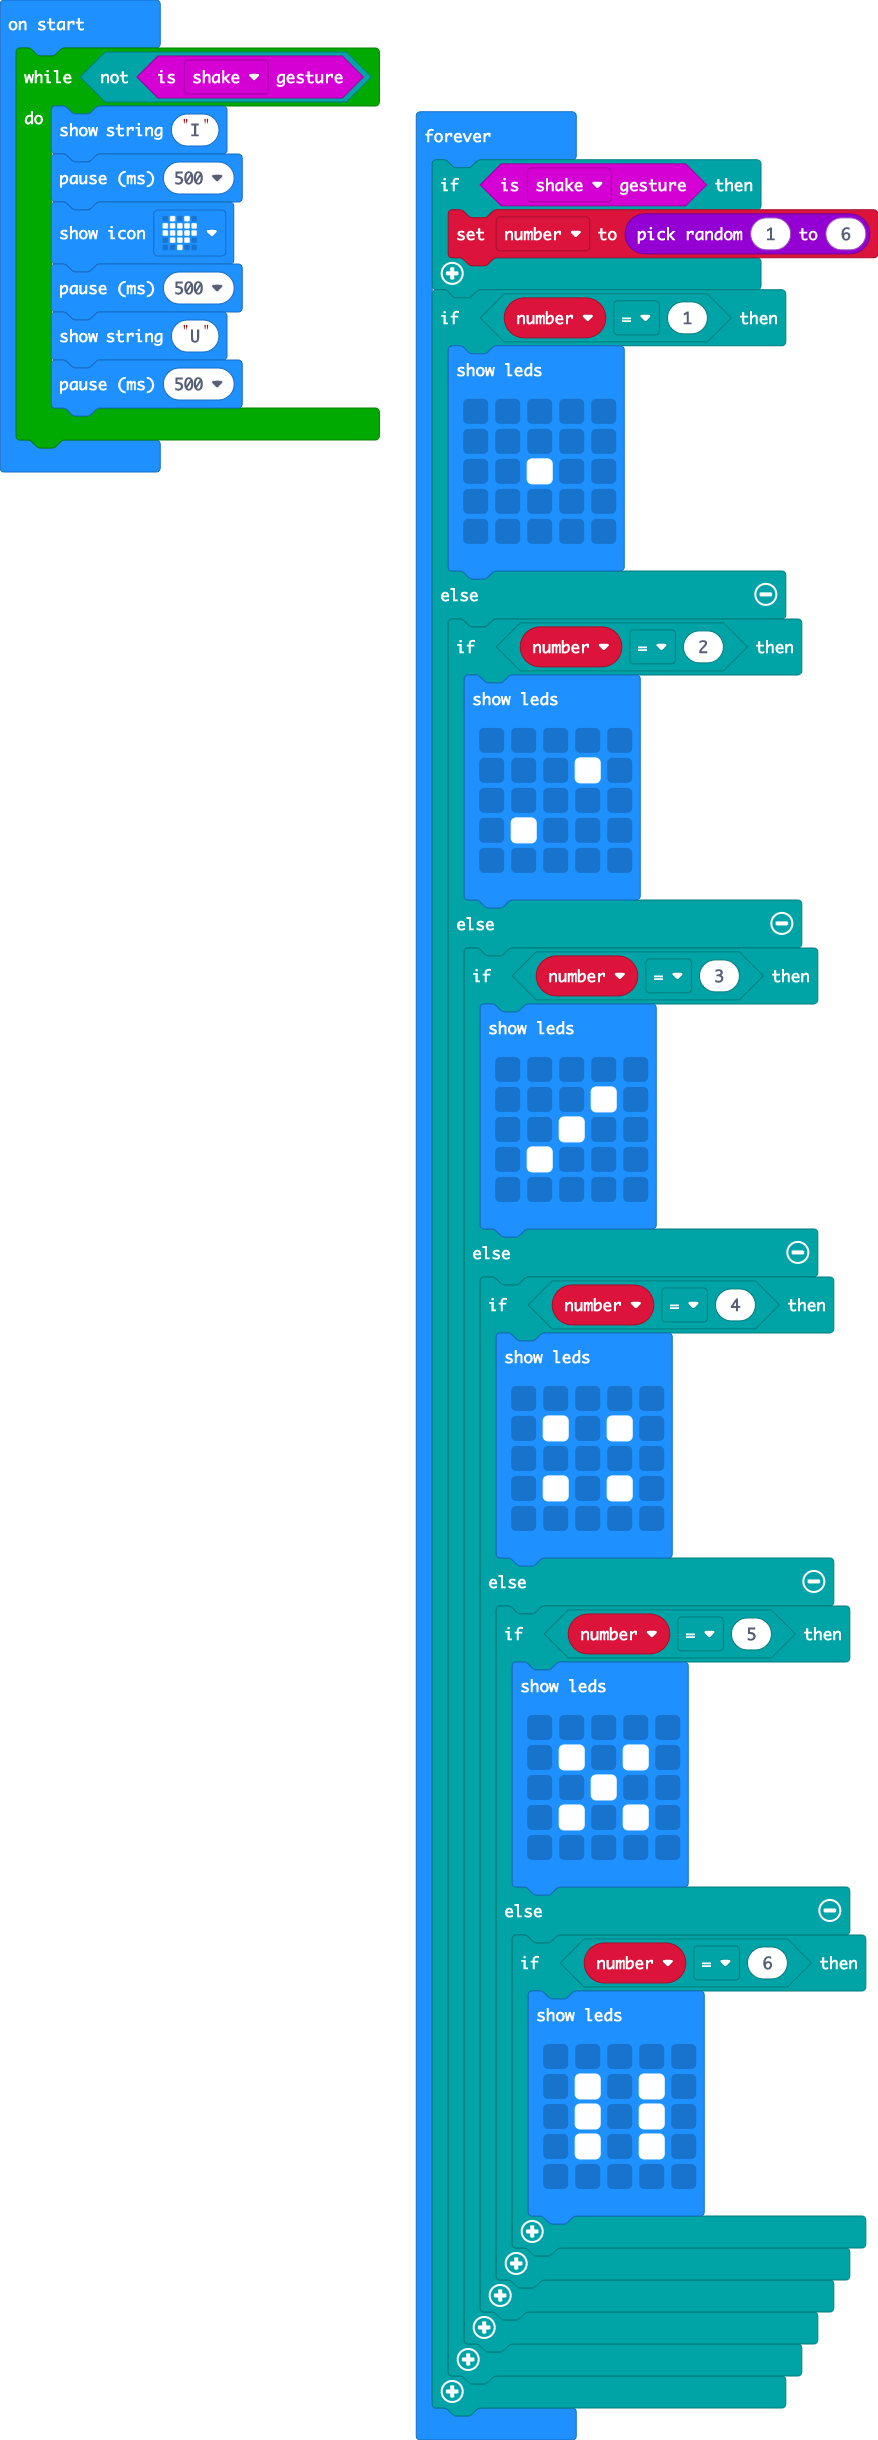
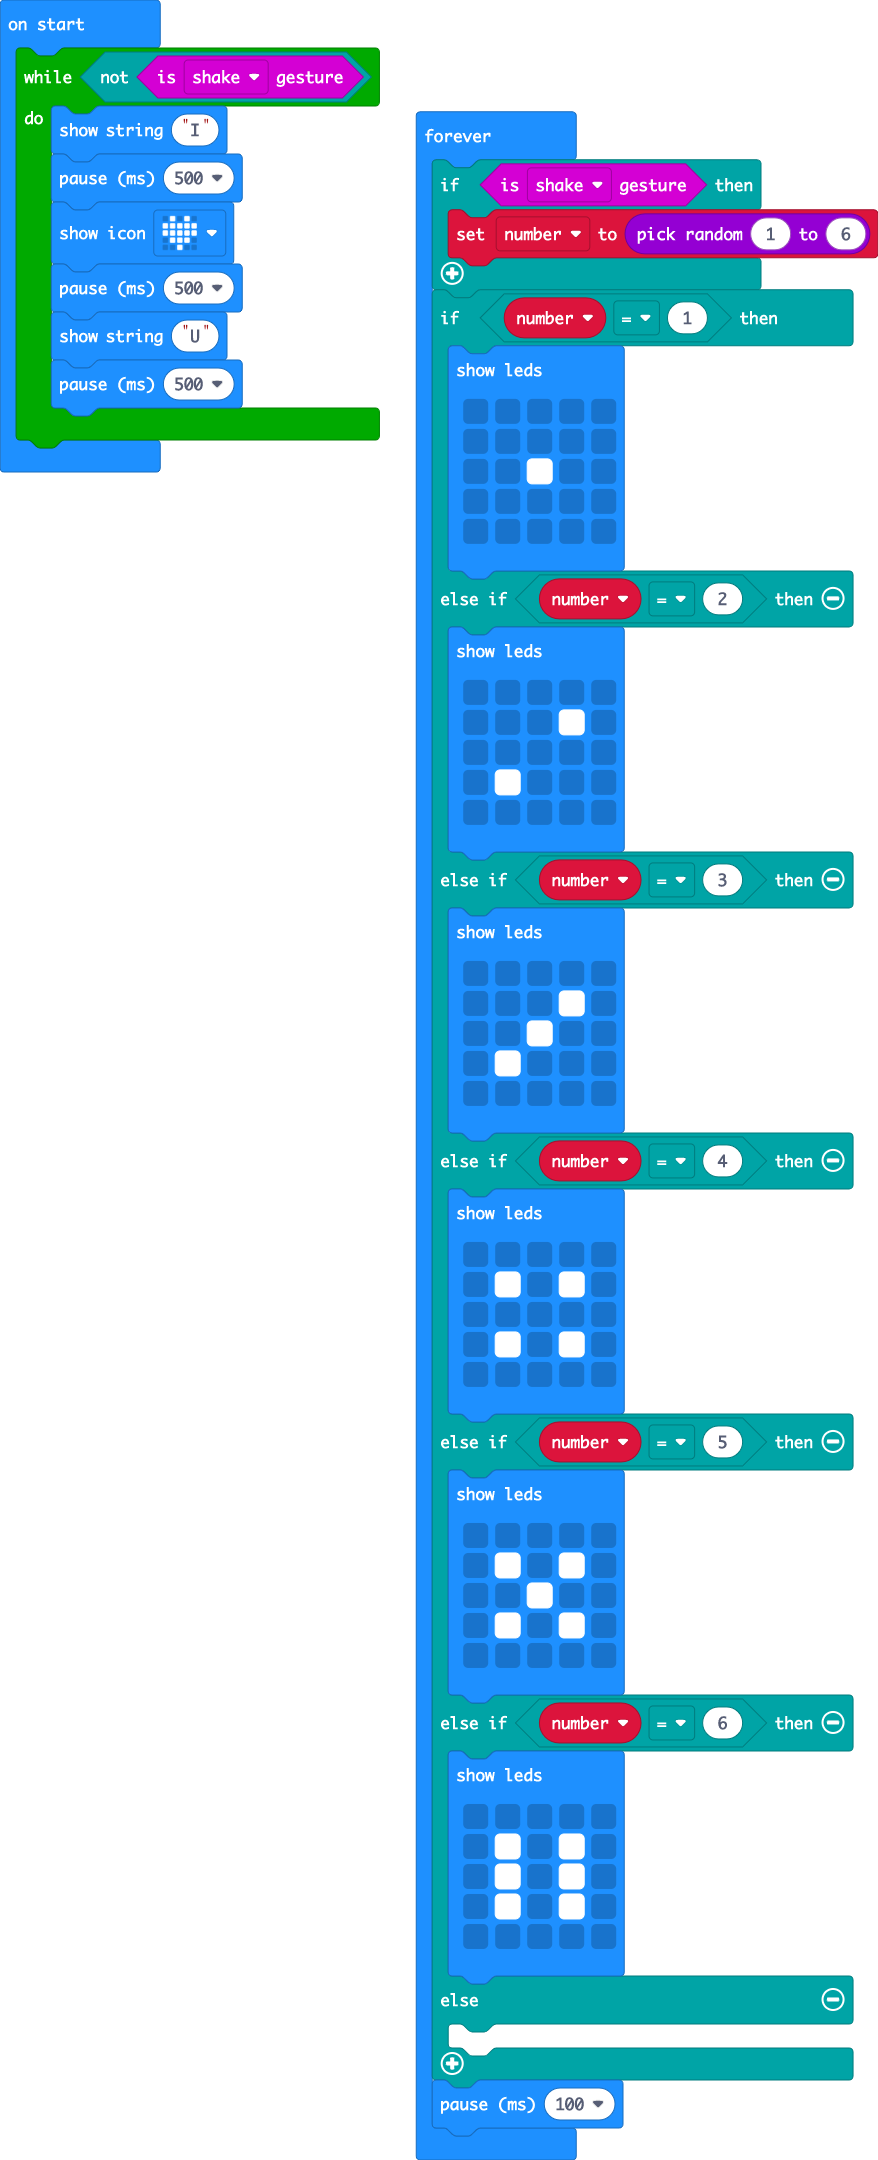
Update main.blocks, main.ts

Changed region(s): [[0.4613, 0.031, 1.0, 0.9926], [0.0, 0.0, 0.4305, 0.2171]]

diff --git a/main.ts b/main.ts
@@ -19,55 +19,48 @@ basic.forever(function () {
             . . . . .
             . . . . .
             `)
+    } else if (number == 2) {
+        basic.showLeds(`
+            . . . . .
+            . . . # .
+            . . . . .
+            . # . . .
+            . . . . .
+            `)
+    } else if (number == 3) {
+        basic.showLeds(`
+            . . . . .
+            . . . # .
+            . . # . .
+            . # . . .
+            . . . . .
+            `)
+    } else if (number == 4) {
+        basic.showLeds(`
+            . . . . .
+            . # . # .
+            . . . . .
+            . # . # .
+            . . . . .
+            `)
+    } else if (number == 5) {
+        basic.showLeds(`
+            . . . . .
+            . # . # .
+            . . # . .
+            . # . # .
+            . . . . .
+            `)
+    } else if (number == 6) {
+        basic.showLeds(`
+            . . . . .
+            . # . # .
+            . # . # .
+            . # . # .
+            . . . . .
+            `)
     } else {
-        if (number == 2) {
-            basic.showLeds(`
-                . . . . .
-                . . . # .
-                . . . . .
-                . # . . .
-                . . . . .
-                `)
-        } else {
-            if (number == 3) {
-                basic.showLeds(`
-                    . . . . .
-                    . . . # .
-                    . . # . .
-                    . # . . .
-                    . . . . .
-                    `)
-            } else {
-                if (number == 4) {
-                    basic.showLeds(`
-                        . . . . .
-                        . # . # .
-                        . . . . .
-                        . # . # .
-                        . . . . .
-                        `)
-                } else {
-                    if (number == 5) {
-                        basic.showLeds(`
-                            . . . . .
-                            . # . # .
-                            . . # . .
-                            . # . # .
-                            . . . . .
-                            `)
-                    } else {
-                        if (number == 6) {
-                            basic.showLeds(`
-                                . . . . .
-                                . # . # .
-                                . # . # .
-                                . # . # .
-                                . . . . .
-                                `)
-                        }
-                    }
-                }
-            }
-        }
+    	
     }
+    basic.pause(100)
 })
